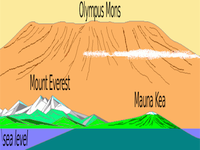
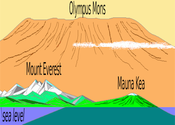
Edit - gamma, thumb, imagemap.

diff --git a/threeMountains.html b/threeMountains.html
@@ -18,11 +18,11 @@
     <!-- Main Content -->
     <div class="content">
 
-        <img class="thumb2" src="olympus-large.png" width="100" height="100" alt="Infograph of Olympus Mons, Mount Everest, and Mauna Kea." usemap="#olympus3">
+        <img class="thumb2" src="olympus-large.png" width="650" height="217" alt="Infograph of Olympus Mons, Mount Everest, and Mauna Kea." usemap="#olympus3">
         <map name="olympus3">
-          <area shape="rect" coords="248,6,400,25" href="https://bit.ly/2dPSO6P" alt="Mons" target="_blank">
-          <area shape="rect" coords="84,132,237,110" href="https://bit.ly/2GgiYfW" alt="Everest" target="_blank">
-          <area shape="rect" coords="432,157,541,133" href="https://bit.ly/2OOQai0" alt="Kea" target="_blank">
+          <area shape="rect" coords="254,1,390,27" href="https://bit.ly/2dPSO6P" alt="Mons" target="_blank">
+          <area shape="poly" coords="256,127,117,98,97,126" href="https://bit.ly/2GgiYfW" alt="Everest" target="_blank">
+          <area shape="circle" coords="485,151,46" href="https://bit.ly/2OOQai0" alt="Kea" target="_blank">
         </map>
 
     </div>

diff --git a/olympus-index.html b/olympus-index.html
@@ -20,7 +20,7 @@
       <p><a href="olympus-large.html" target="_blank"><img class="thumb1" src="olympus-tn.jpg" alt="Aerial view of Olympus Mons." title="Click for large image."></a>Olympus Mons is the largest volcano on Mars, standing at over 33,476 feet. The summit alone is 53 miles wide and its surrounding edges reach as high as six miles. The volcano is located in Mars' western hemipshere at the edge of the Tharsis bulge and is the tallest known planetary mountain in the Solar System.</p>
       <p>Just to put into perspective how massive Olympus Mons is - think of this behemoth as being
         <a href="threeMountains.html" target="_blank">
-        <img class="thumb2" src="olympus-tn.png" alt="Aerial view of Olympus Mons." title="Click for imagemap.">
+        <img class="thumb2" src="olympus_tn.png" alt="Aerial view of Olympus Mons." title="Click for imagemap.">
         </a>
       roughly the size of Arizona - but three times bigger than Earth's largest mountain Mt. Everest. The <strong>cliff</strong> alone has been reported to be as tall as Mauna Kea.</p>
     </div>

diff --git a/threeMountains.css b/threeMountains.css
@@ -33,7 +33,7 @@
 .thumb2 {
   opacity: 0.8;
   justify-content: center;
-  margin-left: 20%;
+  margin-left: 15%;
 }
 
 

diff --git a/olympus-main.css b/olympus-main.css
@@ -39,8 +39,7 @@
 
 .thumb2 {
   float: right;
-  margin-left: 10px;
-  padding: 5px;
+  margin-right: 5px;
 }
 
 
